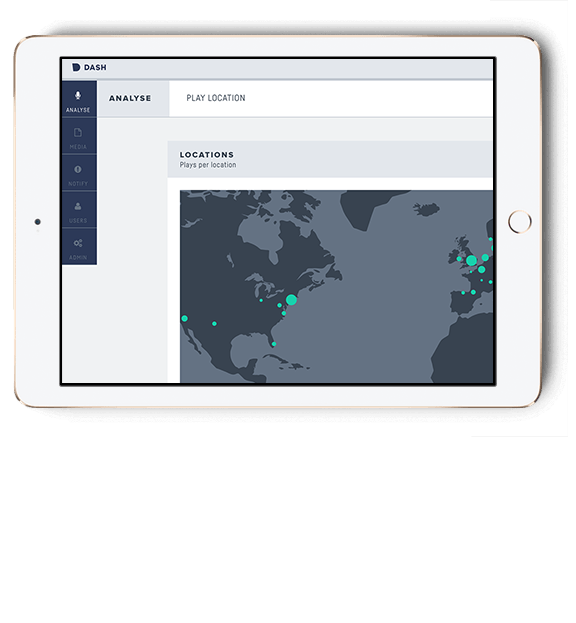
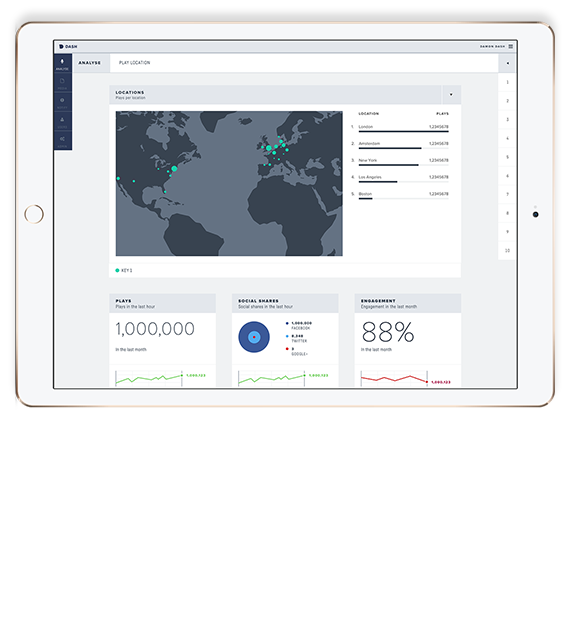
taken out bottom bit + retina images

diff --git a/source/contact.html b/source/contact.html
@@ -3,7 +3,7 @@
   <head>
     <meta http-equiv="content-type" content="text/html;charset=UTF-8" />
     <meta charset="utf-8" />
-    <title>Pages - Front End</title>
+    <title>Dash Audio - Contact</title>
     <meta name="viewport" content="width=device-width, initial-scale=1.0, maximum-scale=1.0, user-scalable=no" />
     <link rel="apple-touch-icon" href="pages/ico/60.png">
     <link rel="apple-touch-icon" sizes="76x76" href="pages/ico/76.png">
@@ -27,17 +27,6 @@
     <!-- BEGIN PAGES CSS -->
     <link class="main-stylesheet" href="pages/css/pages.css" rel="stylesheet" type="text/css" />
     <link class="main-stylesheet" href="pages/css/pages-icons.css" rel="stylesheet" type="text/css" />
-    <style type="text/css">
-    #mc_embed_signup{
-      background:none; 
-      clear:left; 
-      font:16px; 
-      font-family:"proxima-nova",Helvetica,Arial,sans-serif;
-      padding: 0;
-      }
-     /* Add your own MailChimp form style overrides in your site stylesheet or in this style block.
-    We recommend moving this block and the preceding CSS link to the HEAD of your HTML file. */
-    </style>
   </head>
   <body class="pace-dark" style="background-color:#5284FF">
     <!-- BEGIN HEADER -->
@@ -52,7 +41,7 @@
           </div>
         </div>
         <!-- BEGIN HEADER TOGGLE FOR MOBILE & TABLET -->
-        <div class="pull-right">
+        <!-- <div class="pull-right">
           <div class="header-inner">
             <div class="visible-sm-inline visible-xs-inline menu-toggler pull-right p-l-10" data-pages="header-toggle" data-pages-element="#header">
               <div class="one"></div>
@@ -60,16 +49,16 @@
               <div class="three"></div>
             </div>
           </div>
-        </div>
+        </div> -->
         <!-- END HEADER TOGGLE FOR MOBILE & TABLET -->
         <!-- BEGIN RIGHT CONTENT -->
-        <div class="pull-right menu-content clearfix" data-pages="menu-content" data-pages-direction="slideRight" id="header">
+        <!-- <div class="pull-right menu-content clearfix" data-pages="menu-content" data-pages-direction="slideRight" id="header"> -->
           <!-- BEGIN HEADER CLOSE TOGGLE FOR MOBILE -->
-          <div class="pull-right">
+          <!-- <div class="pull-right">
             <a href="#" class="padding-10 visible-xs-inline visible-sm-inline pull-right m-t-10 m-b-10 m-r-10" data-pages="header-toggle" data-pages-element="#header">
               <i class=" pg-close_line"></i>
             </a>
-          </div>
+          </div> -->
           <!-- END HEADER CLOSE TOGGLE FOR MOBILE -->
           <!-- BEGIN MENU ITEMS -->
           <div class="header-inner">
@@ -194,10 +183,10 @@
           <div class="col-md-6">
             <div class="p-r-40 sm-p-r-0">
               <h3 style="font-weight:800;">Audio optimisation through finer insight</h3>
-              <p style="color:#ffffff; font-weight:400;">Dash Connect enables independent audio content creators like yourself better understand your audience through finer analytics. Dash Connect enables you to easily add your Soundcloud stats to your Google Analytics dashboard.<br><br>
+              <p style="color:#ffffff; font-weight:400;">Dash Connect enables independent audio content creators like yourself better understand your audience through finer analytics. Dash Connect enables you to easily add your Soundcloud stats to your Google Analytics dashboard.
 
 Soon you will be able to do much more. We appreciate your early support and feedback is always welcome.
-<br><br>See what we are up to next with our transparent <a href="https://trello.com/b/2o5aP0CZ/roadmap" style="color:#fff; font-weight: 600; ">product roadmap</a></p>
+<br><br>See what we are up to next with our transparent <a href="https://trello.com/b/2o5aP0CZ/roadmap" style="color:#fff; font-weight: 600; ">product roadmap</a>.</p>
               <!--
               <div class="row">
                 <div class="col-sm-6">
@@ -246,19 +235,19 @@ Soon you will be able to do much more. We appreciate your early support and feed
                     <div class="mc-field-group">
                       <label for="mce-EMAIL" style="color:#fff;">Email Address</span>
                     </label>
-                      <input type="email" value="" name="EMAIL" class="required email" id="mce-EMAIL">
+                      <input type="email" value="" name="EMAIL" class="required email" id="mce-EMAIL" style="border-radius:0; border: 2px solid #fff; background-color:#5284FF; color:#000;">
                     </div>
                     <div class="mc-field-group">
                       <label for="mce-FNAME" style="color:#fff;">First Name </label>
-                      <input type="text" value="" name="FNAME" class="" id="mce-FNAME">
+                      <input type="text" value="" name="FNAME" class="" id="mce-FNAME" style="border-radius:0; border: 2px solid #fff; background-color:#5284FF; color:#000;">
                     </div>
                     <div class="mc-field-group">
                       <label for="mce-LNAME" style="color:#fff;">Last Name </label>
-                      <input type="text" value="" name="LNAME" class="" id="mce-LNAME">
+                      <input type="text" value="" name="LNAME" class="" id="mce-LNAME" style="border-radius:0; border: 2px solid #fff; background-color:#5284FF; color:#000;">
                     </div>
                       <div id="mce-responses" class="clear">
                         <div class="response" id="mce-error-response" style="display:none"></div>
-                        <div class="response" id="mce-success-response" style="display:none"></div>
+                        <div class="response" id="mce-success-response" style="color:#fff padding:0; border-left: 2px solid #fff;"></div>
                       </div>    <!-- real people should not fill this in and expect good things - do not remove this or risk form bot signups-->
                         <div style="position: absolute; left: -5000px;" aria-hidden="true"><input type="text" name="b_cc166a95cfcff1a67bf95cf86_d5884aaa01" tabindex="-1" value=""></div>
                         <div class="clear"><input type="submit" value="Subscribe" name="subscribe" class="btn btn-sm btn-blue" style="border: 2px solid #fff; border-radius:0; text-transform:uppercase; margin:20px 0 0 0;"></div>

diff --git a/source/index.html b/source/index.html
@@ -187,7 +187,7 @@
             <div class="swiper-slide fit slide-1">
               <!-- BEGIN IMAGE PARRALAX -->
               <div class="slider-wrapper">
-                <div class="bg-image full-width full-height" data-swiper-parallax="30%" data-pages-bg-image="assets/images/orange.png">
+                <div class="bg-image full-width full-height" data-swiper-parallax="30%" data-pages-bg-image="assets/images/orange.png" data-src-retina="assets/images/orange@2x.png" width="100" height="100">
                 </div>
               </div>
               <!-- END IMAGE PARRALAX -->
@@ -235,7 +235,7 @@
                           <div class="col-md-6 col-md-offset-3 p-b-90 sm-p-b-40 sm-m-b-30">
                             <h1 class="light text-white sm-no-margin" data-swiper-parallax="-15%">Dash Connect</h1>
                             <h4>Dash Connect is a growing suite of audio analytics tools for podcast creators, independent radio stations, music producers.</h4>
-                            <p><img src="assets/images/podcasting-v02.png" alt="Soundcloud + Google Analytics" data-src-retina="assets/images/podcasting-v02@2x.png" width="500" height="250"></p>
+                            <p><img src="assets/images/podcasting-v02.png" alt="Soundcloud + Google Analytics" data-src-retina="assets/images/podcasting-v02@2x.png" width="375" height="188"></p>
                             <a class="btn btn-sm btn-blue" href="http://app.dashconnect.co" style= "margin:30px 0;" data-text="Connect now">ADD SOUNDCLOUD TO GOOGLE ANALYTICS</a>
                           </div>
                         </div>
@@ -277,8 +277,8 @@
                 </div>
               </div>
               <!-- END CONTENT -->
-              <img class="ipad lazy" draggable="false" src="assets/images/locations.png" alt="" title="" data-swiper-parallax="80%">
-              <img class="bg-elements hidden-xs lazy" src="assets/images/bg_elements_v01.png" data-swiper-parallax="-20%" alt="">
+              <img class="ipad lazy" draggable="false" src="assets/images/locations.png" data-src-retina="assets/images/locations@2x.png" width="576" height="623" alt="location data" title="location data" data-swiper-parallax="80%">
+              <img class="bg-elements hidden-xs lazy" src="assets/images/analytics.png" data-src-retina="assets/images/analytics@2x.png" width="1458" height="600"data-swiper-parallax="-20%" alt="">
             </div>
             <!-- END SLIDE -->
             <!-- BEGIN SLIDE -->
@@ -309,7 +309,7 @@
               </div>
               <!-- END CONTENT -->
               <!-- <img class="ipad lazy" draggable="false" src="assets/images/distribution.png" data-src-retina="assets/images/distribution@2x.png" alt="" title="" data-swiper-parallax="80%"> -->
-              <img class="bg-elements hidden-xs lazy" src="assets/images/bg_elements_v02.png" data-swiper-parallax="-20%" alt="">
+              <img class="bg-elements hidden-xs lazy" src="assets/images/bg_elements_v02.png" data-src-retina="assets/images/distribution@2x.png" width="1458" height="600" data-swiper-parallax="-20%" alt="">
             </div>
             <!-- END SLIDE -->
             <!-- BEGIN SLIDE -->
@@ -491,7 +491,7 @@ content</h1>
     -->
     <!-- END CONTENT SECTION -->
     <!-- START CONTENT SECTION -->
-    <section class="p-b-50 p-t-50 bg-master-dark">
+<!--     <section class="p-b-50 p-t-50 bg-master-dark">
       <div class="container p-b-50 p-t-50">
         <div class="row">
           <div class="col-md-8 col-md-offset-2">
@@ -505,7 +505,7 @@ content</h1>
           </div>
         </div>
       </div>
-    </section>
+    </section> -->
     <!-- END CONTENT SECTION -->
     <!-- START FOOTER -->
     <!--

diff --git a/source/pages/css/pages.css b/source/pages/css/pages.css
@@ -8728,3 +8728,24 @@ sup.dollar {
   }
 }
 /*** Retina Display Images **/
+
+/*MAILCHIMP*/
+  .mc_embed_signup {
+    background:none; 
+    clear:left; 
+    font:20px; 
+    font-family:"proxima-nova",Helvetica,Arial,sans-serif;
+    padding: 0;
+  }
+  .mce-success-response {
+    color: #fff;
+  }
+  .mc_embed_signup input {
+    border: 2px solid #ffffff;
+    -webkit-border-radius: 3px;
+    -moz-border-radius: 3px;
+    border-radius: 0;
+  }
+  .mce-success-response {
+    color: #ffffff;
+  }
